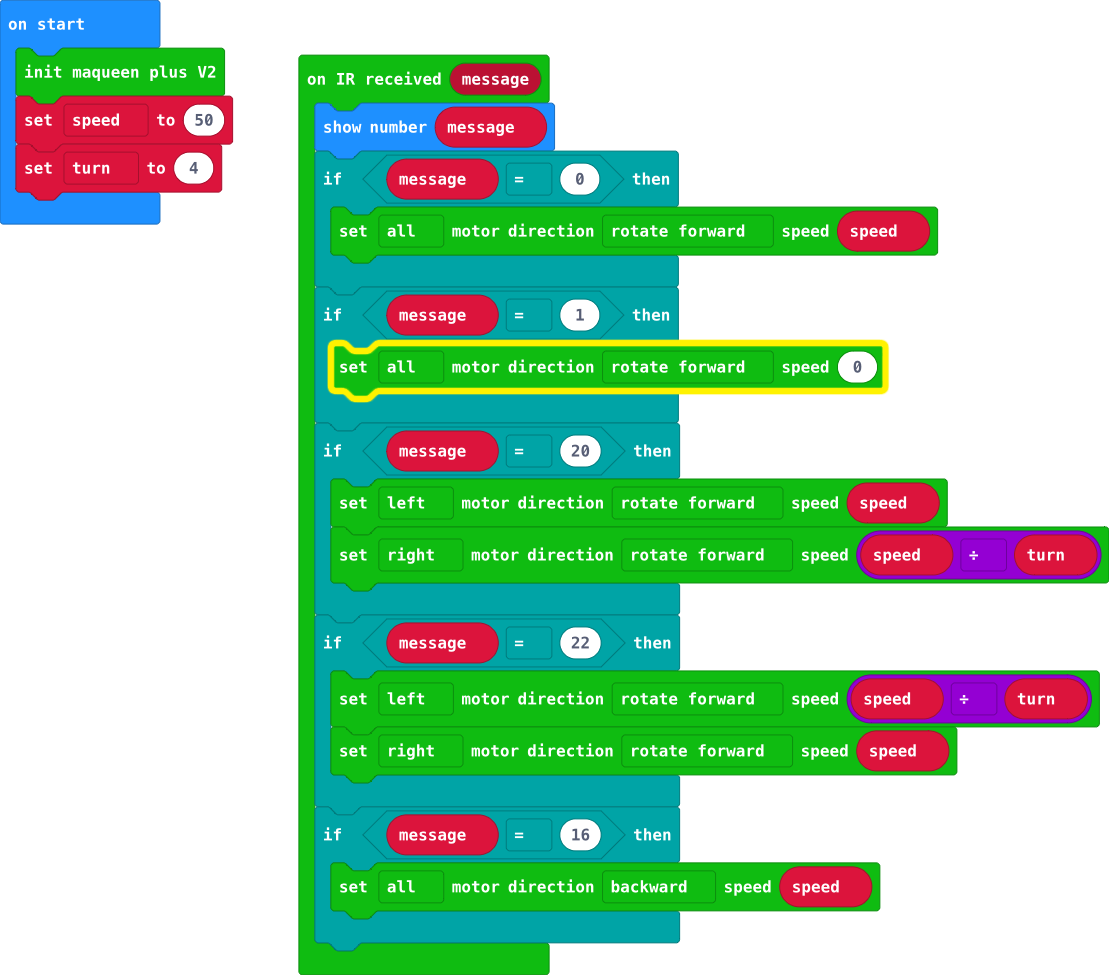
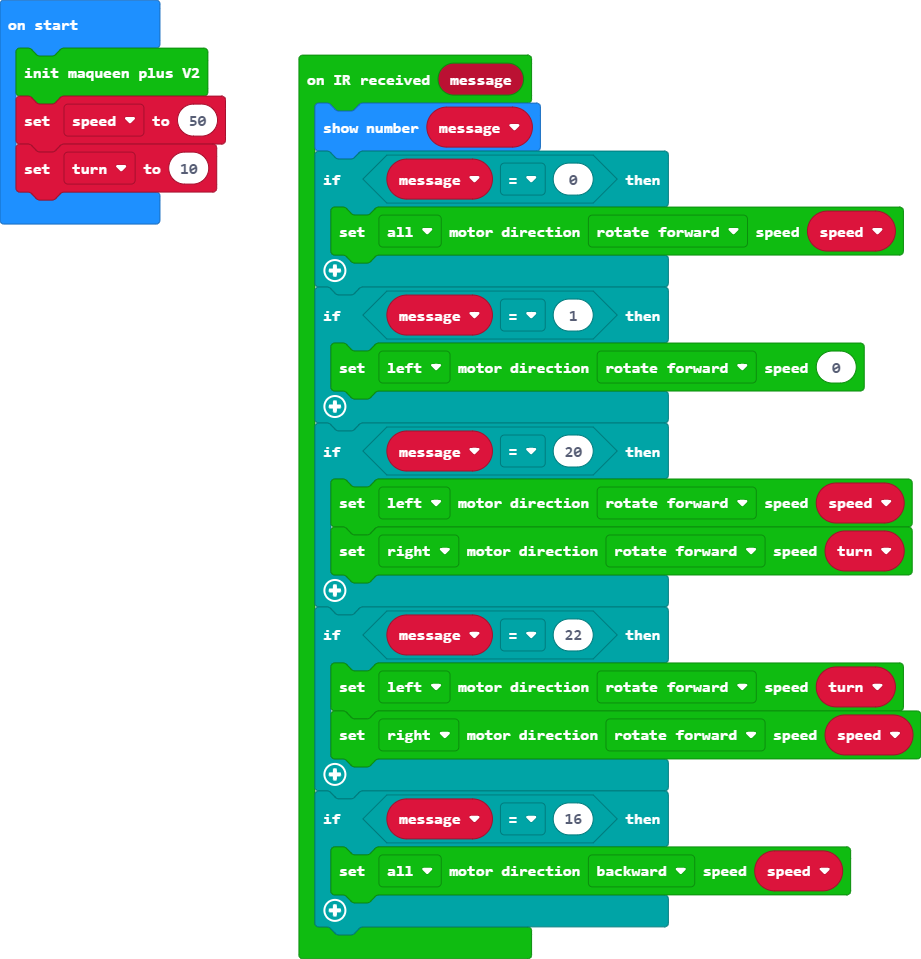
Update main.blocks, main.ts

diff --git a/main.ts b/main.ts
@@ -8,10 +8,10 @@ DFRobotMaqueenPlusV2.onIrDatagram(function (message) {
     }
     if (message == 20) {
         DFRobotMaqueenPlusV2.controlMotor(MyEnumMotor.eLeftMotor, MyEnumDir.eForward, speed)
-        DFRobotMaqueenPlusV2.controlMotor(MyEnumMotor.eRightMotor, MyEnumDir.eForward, speed / turn)
+        DFRobotMaqueenPlusV2.controlMotor(MyEnumMotor.eRightMotor, MyEnumDir.eForward, turn)
     }
     if (message == 22) {
-        DFRobotMaqueenPlusV2.controlMotor(MyEnumMotor.eLeftMotor, MyEnumDir.eForward, speed / turn)
+        DFRobotMaqueenPlusV2.controlMotor(MyEnumMotor.eLeftMotor, MyEnumDir.eForward, turn)
         DFRobotMaqueenPlusV2.controlMotor(MyEnumMotor.eRightMotor, MyEnumDir.eForward, speed)
     }
     if (message == 16) {
@@ -22,4 +22,4 @@ let turn = 0
 let speed = 0
 DFRobotMaqueenPlusV2.init()
 speed = 50
-turn = 4
+turn = 10
